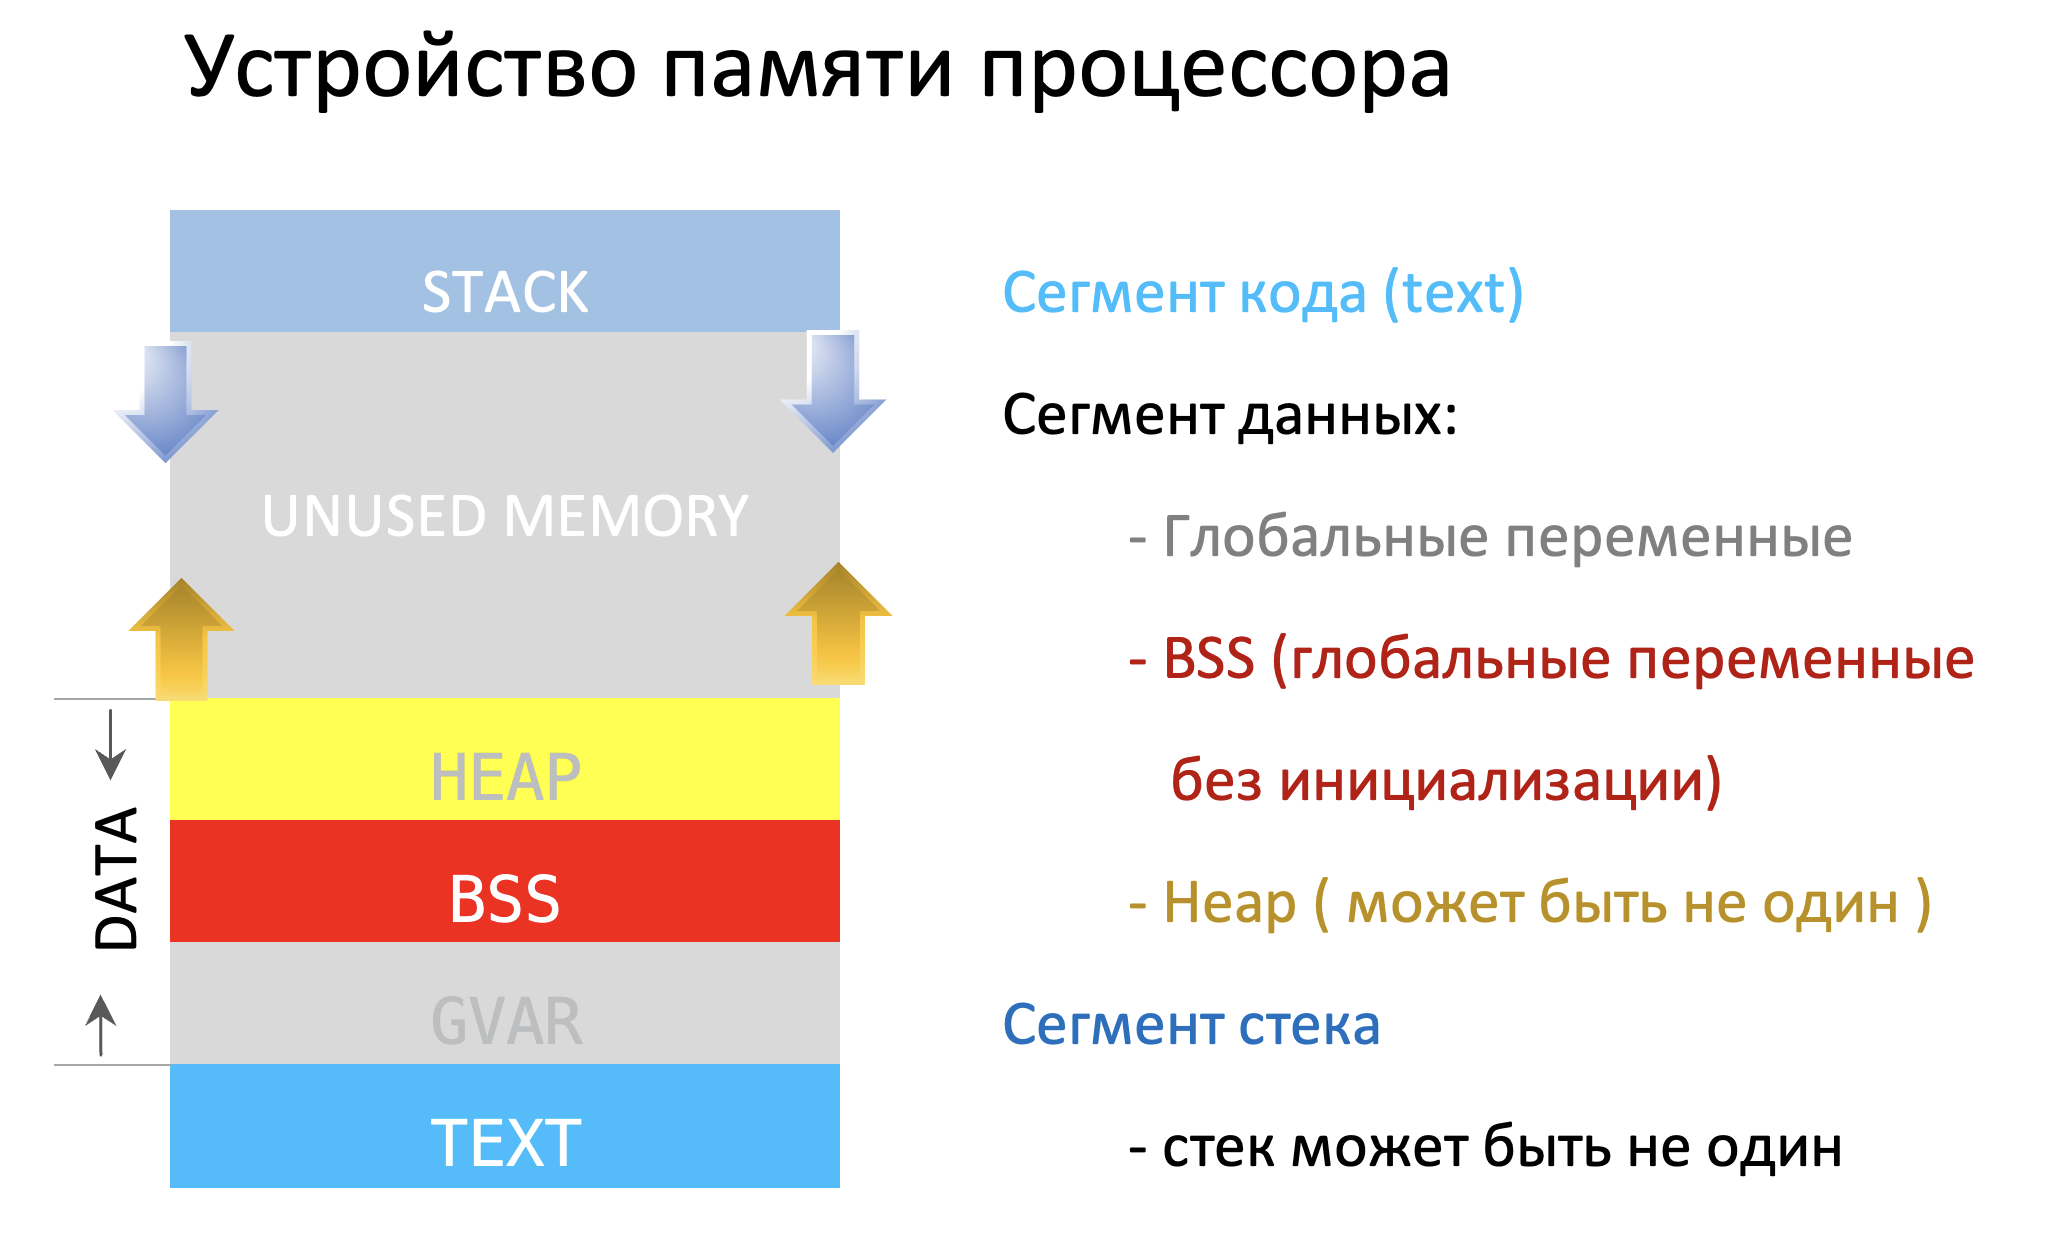
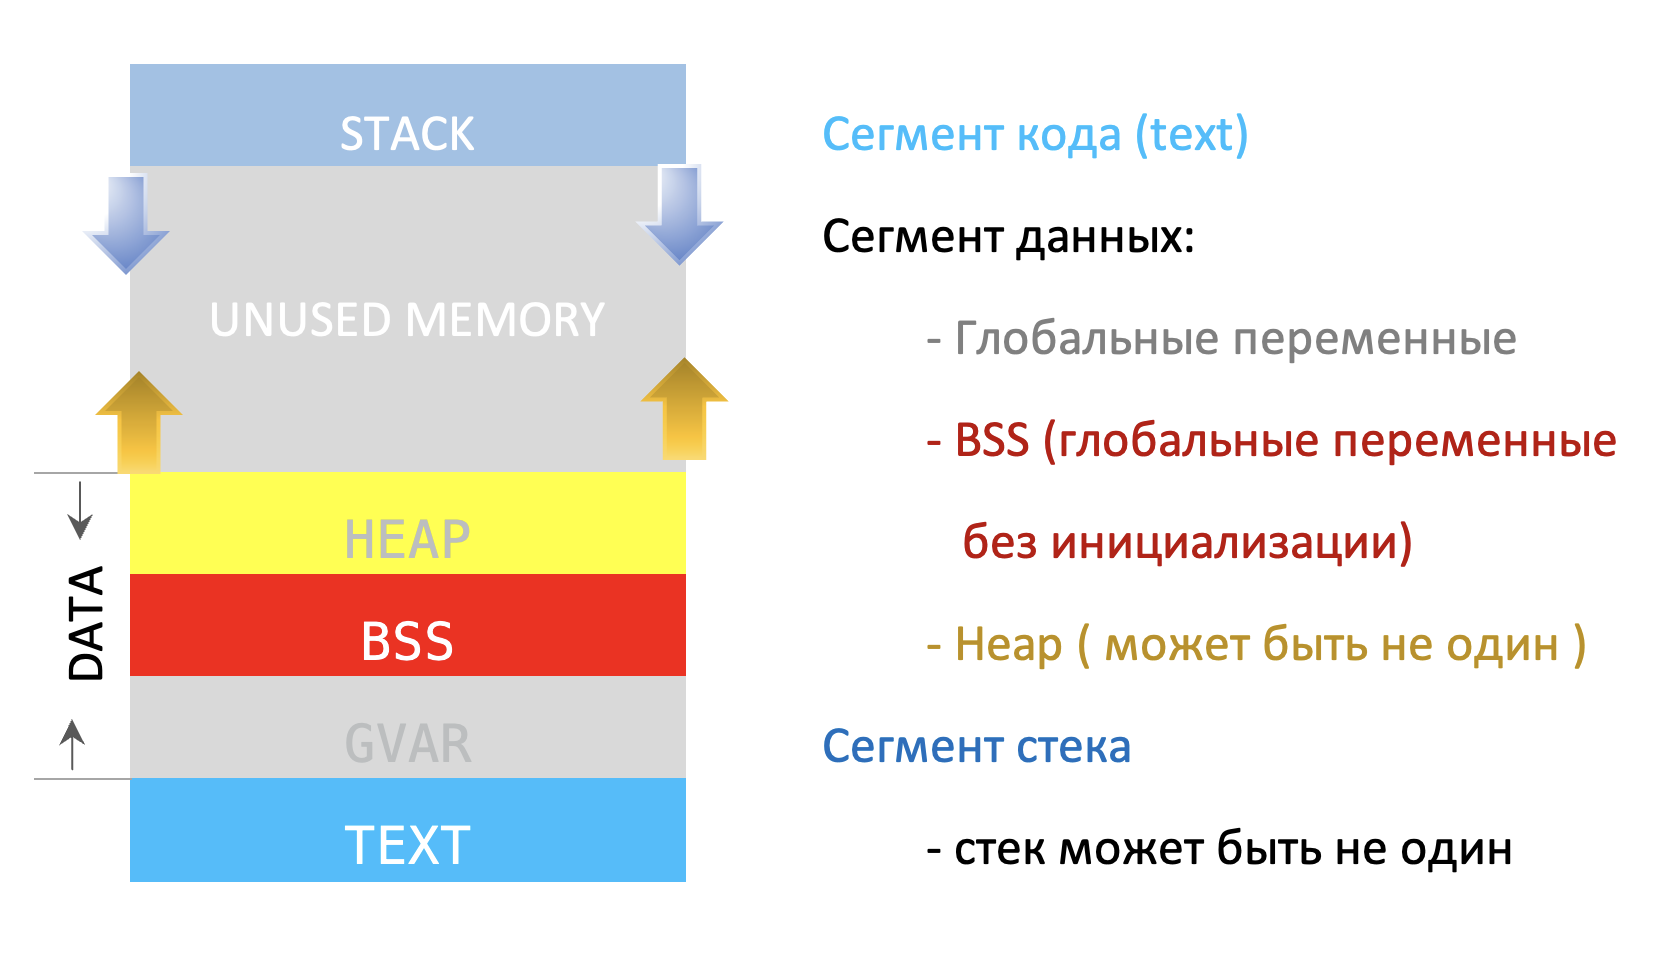
add lecture-07, +- processorMemoryOrganization

diff --git a/lectures/lecture-07.md b/lectures/lecture-07.md
@@ -11,17 +11,19 @@
 
 1. [Проблема масштабируемости переменных](#1-проблема-масштабируемости-переменных)
 2. [Массивы](#2-массивы)
-    - [Объявление массива](#объявление-массива)
-    - [Агрегированная инициализация массивов](#агрегированная-инициализация-массивов)
-    - [Получение длины массива](#получение-длины-массива)
-    - [Цикл range-based for](#цикл-range-based-for)
-    - [Передача массива в функцию](#передача-массива-в-функцию)
+   - [Объявление массива](#объявление-массива)
+   - [Агрегированная инициализация массивов](#агрегированная-инициализация-массивов)
+   - [Получение длины массива](#получение-длины-массива)
+   - [Цикл range-based for](#цикл-range-based-for)
+   - [Передача массива в функцию](#передача-массива-в-функцию)
 
 ## Вторая часть — 45 минут
 
    - [Адрес нулевого элемента](#адрес-нулевого-элемента)
-   - [Перебор элементов массива](#перебор-элементов-массива)
+   - [Перебор массива через указатель](#перебор-элементов-массива)
    - [`const` и указатели](#const-и-указатели)
+3. [Устройство памяти процессора](#3-устройство-памяти-процессора)
+   - [Как устроен и работает Стек](#как-устроен-и-работает-стек)
 
 ----------
 
@@ -493,18 +495,30 @@ ptr = &other;
 | `int* const ptr` | **Нет** | Да |
 | `const int* const ptr` | **Нет** | **Нет** |
 
-## Устройство памяти процессора
+## 3. Устройство памяти процессора
 
 ![ ](../meta/img/processorMemoryOrganization.png)
 
 Очень кратко и обобщённо, что означают эти термины:
+
+- **`.text` (Код программы)** — область памяти, где хранится сам скомпилированный машинный код программы (инструкции для процессора). Обычно эта область доступна только для чтения, что защищает программу от случайного самомодифицирования.
+
+- **`.data` (Инициализированные данные)** — сегмент ОЗУ, куда помещаются глобальные и статические переменные, которые были инициализированны разработчиком при объявлении ненулевым значением (например, `uint8_t var = 5;`).
+
+- **`.bss` (Неинициализированные данные)** — сегмент ОЗУ для глобальных и статических переменных, которые либо не были инициализированы явно (`uint8_t var;`), либо были инициализированы нулём (`uint8_t var = 0;`). При запуске программы операционная система автоматически заполняет весь этот сегмент нулями.
+
+- **Куча (Heap)** — область ОЗУ, используемая для динамического выделения памяти в процессе работы программы. Именно здесь резервируется место, когда в C++ вызывается оператор `new` (или функции `malloc`/`calloc` в стиле C). Управление памятью на куче полностью лежит на разработчике.
+
+- **Стек (Stack)** — область памяти в ОЗУ, предназначенная для автоматического управления контекстом функций и обработки прерываний.
+
+### Как устроен и работает Стек
 
 ***Стек*** — область памяти в ОЗУ, куда сохраняется адрес программы в момент возникновения прерывания или перехода в другую функцию.
 
 чуть подробнее
 Пошагово выглядит это так:
 
-- программа работает-работает (указатель `IP instruction pointer` «бежит» последовательно по адресам инструкий для процессора).
+- программа работает-работает (указатель `IP instruction pointer` «бежит» последовательно по адресам инструкций для процессора).
 
 <!--Происходит прерывание — указатель перепрыгивает в обработчик этого прерывания.
 
@@ -512,7 +526,7 @@ ptr = &other;
 
 После того как обработка прерывания закончится, из стека вытаскивается адрес на который нужно вернуться.-->
 
-При переходе из одной функции в другую, например из `int main()` в void func().
+При переходе из одной функции в другую, например из `int main()` в `void func()`.
 
 Технически, стек можно представить в виде стопки книг, где нельзя взять вторую сверху книгу не сняв предварительно первую. То есть стек работает по принципу `LIFO` буфера (*Last In First Out*) — «последним пришёл, первым вышел». Такая организация очень хорошо себя оправдывает. Представьте себе такую ситуацию:
 
@@ -520,22 +534,14 @@ ptr = &other;
 
 В стек записался адрес того места откуда выпрыгнул указатель.
 
-Идёт обработка функции `func()` и в этот происходит вызов функции `boo()`.
+Идёт обработка функции `func()` и в этот момент происходит вызов функции `boo()`.
 
 В стек записывается (ложится поверх предыдущего) ещё один адрес, и указатель переходит в функцию `boo()`.
 
 В результате на стеке лежат два адреса — адрес, на котором была приостановлена функция `main()`, а поверх него адрес на котором приостановлена функция `func()`.
 
-По окончании работы функции `boo()` система берёт из стека, «снимает со стопки» самый последний адрес, переходит по нему и заканчивает выполнение функции `func()` с того места, где она была прервана. Больше этот адрес не нужен и он выкидывается, на стеке остаётся адрес приостановки функции `main()` и функция `main()` продолжает выполняться. Таким образом, снимая «книжку за книжкой» система не сможет вернуться куда-то не туда и нарушить целостность программы.
+По окончании работы функции `boo()` система берёт из стека, «снимает со стопки» самый последний адрес, переходит по нему и заканчивает выполнение функции `func()` с того места, где она была прервана. Больше этот адрес не нужен и он выкидывается, на стеке остаётся адрес приостановки функции `main()`. Как только функция `func()` завершается, система опять заглядывает в стек и «снимает» адрес приостановки функции main(). Адрес опять же летит в помойку, а функция main() продолжает выполняться. Таким образом, снимая «книжку за книжкой» система не сможет вернуться куда-то не туда и нарушить целостность программы.
 
-Помимо адресов, в **стек** сохраняются локальные переменные функций и параметры передающиеся в функции. То есть в момент вызова функции, вместе с адресом для возврата, на стек кладутся ещё и локальные переменные, которые есть в этой функции. Как только функция отработает, эти переменные будут сняты со стека и уничтожены.
-
-***Куча (Heap)*** — эта область ОЗУ, которая используется для динамического выделения памяти в процессе работы программы. То есть, когда вы делаете `malloc/calloc/realloc`, то память выделяется на куче.
-
-***bss*** — область ОЗУ, сюда помещаются неинициализированные глобальные переменные (`uint8_t var;`).
-
-***data*** — область ОЗУ, сюда помещаются инициализированные глобальные переменные (`uint8_t var = 0;`).
-
-***text*** — здесь лежит сама программа.
+Помимо адресов, в **стек** сохраняются локальные переменные функций и параметры, передающиеся в функции. То есть в момент вызова функции, вместе с адресом для возврата, на стек кладутся ещё и локальные переменные, которые есть в этой функции. Как только функция отработает, эти переменные будут сняты со стека и уничтожены.
 
 **Стек** начинается от самого большого адреса и при увеличении размера ползёт вниз (записывая данные в меньшие адреса), а **куча** наоборот, при увеличении размера ползёт вверх, поэтому при выделении памяти на куче нужно следить, чтоб эти области не налезли друг на друга.

diff --git a/README.md b/README.md
@@ -14,7 +14,7 @@ https://iu5git.github.io/cpp/
      - [Лекция 4](https://iu5git.github.io/cpp/meta/lecture-04.html)
      - [Лекция 5](https://iu5git.github.io/cpp/meta/lecture-05.html)
      - [Лекция 6](https://iu5git.github.io/cpp/meta/lecture-06.html)
-     - [Лекция 6](https://iu5git.github.io/cpp/meta/lecture-07.html)
+     - [Лекция 7](https://iu5git.github.io/cpp/meta/lecture-07.html)
      - [Лекция 11](https://iu5git.github.io/cpp/meta/lecture-12.html)
  - Лабораторные работы
 	 - [Лабораторная работа 0.1](https://iu5git.github.io/cpp/meta/lab-00_1.html)
